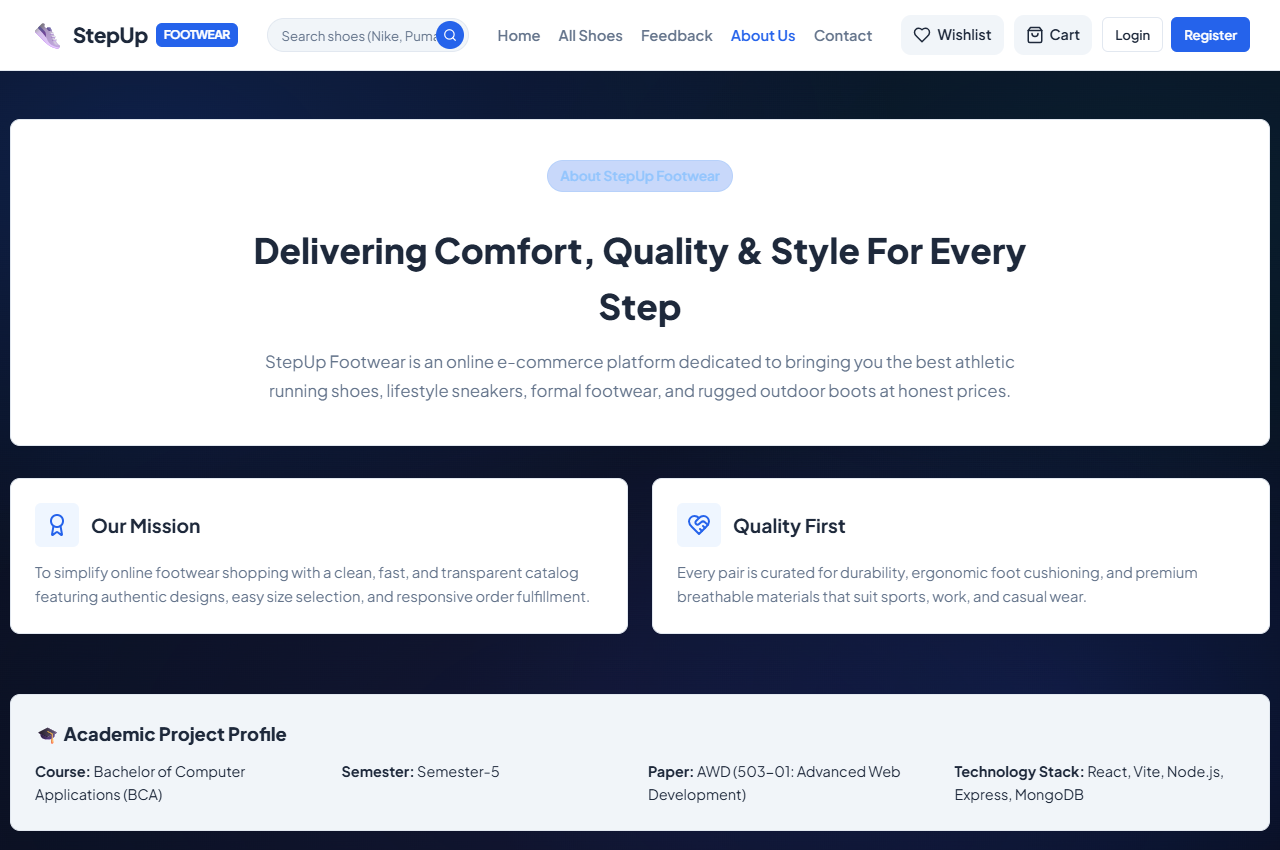
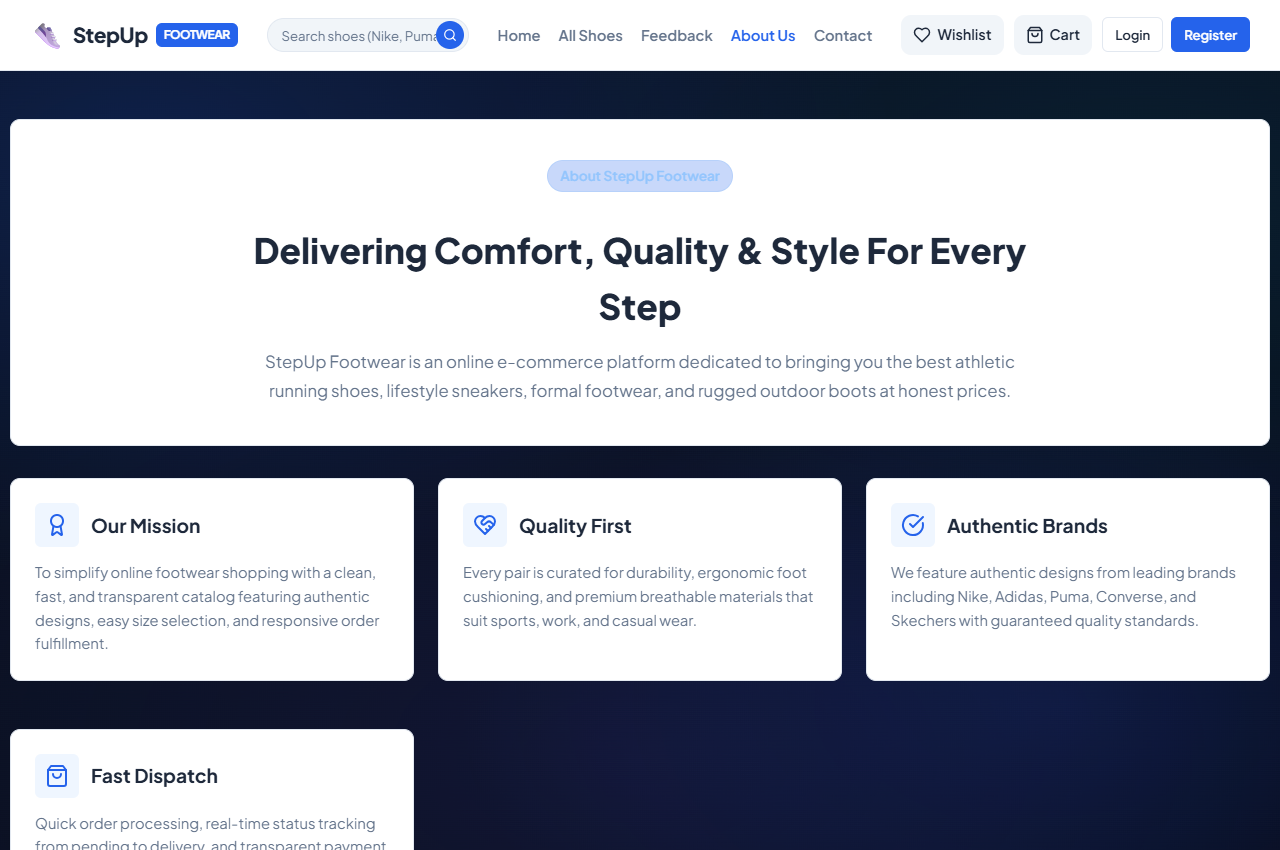
Remove Academic Project Profile from About page and update screenshot

Changed region(s): [[0.0, 0.5506, 1.0, 1.0]]

diff --git a/frontend/src/pages/About.jsx b/frontend/src/pages/About.jsx
@@ -37,26 +37,25 @@ const About = () => {
             Every pair is curated for durability, ergonomic foot cushioning, and premium breathable materials that suit sports, work, and casual wear.
           </p>
         </div>
-      </div>
 
-      {/* Academic Project Info Box */}
-      <div className="card-box" style={{ background: '#f1f5f9', border: '1px solid var(--border)' }}>
-        <h3 style={{ fontSize: '1.15rem', fontWeight: 800, color: 'var(--primary)', marginBottom: '12px' }}>
-          🎓 Academic Project Profile
-        </h3>
-        <div style={{ display: 'grid', gridTemplateColumns: 'repeat(auto-fit, minmax(220px, 1fr))', gap: '16px', fontSize: '0.9rem' }}>
-          <div>
-            <strong>Course:</strong> Bachelor of Computer Applications (BCA)
+        <div className="card-box">
+          <div style={{ display: 'flex', alignItems: 'center', gap: '12px', marginBottom: '14px' }}>
+            <div className="feature-icon-wrap"><CheckCircle size={24} /></div>
+            <h3 style={{ fontSize: '1.2rem', fontWeight: 700, color: 'var(--primary)' }}>Authentic Brands</h3>
           </div>
-          <div>
-            <strong>Semester:</strong> Semester-5
+          <p style={{ color: 'var(--text-muted)', fontSize: '0.92rem' }}>
+            We feature authentic designs from leading brands including Nike, Adidas, Puma, Converse, and Skechers with guaranteed quality standards.
+          </p>
+        </div>
+
+        <div className="card-box">
+          <div style={{ display: 'flex', alignItems: 'center', gap: '12px', marginBottom: '14px' }}>
+            <div className="feature-icon-wrap"><ShoppingBag size={24} /></div>
+            <h3 style={{ fontSize: '1.2rem', fontWeight: 700, color: 'var(--primary)' }}>Fast Dispatch</h3>
           </div>
-          <div>
-            <strong>Paper:</strong> AWD (503-01: Advanced Web Development)
-          </div>
-          <div>
-            <strong>Technology Stack:</strong> React, Vite, Node.js, Express, MongoDB
-          </div>
+          <p style={{ color: 'var(--text-muted)', fontSize: '0.92rem' }}>
+            Quick order processing, real-time status tracking from pending to delivery, and transparent payment options for every order.
+          </p>
         </div>
       </div>
     </div>
